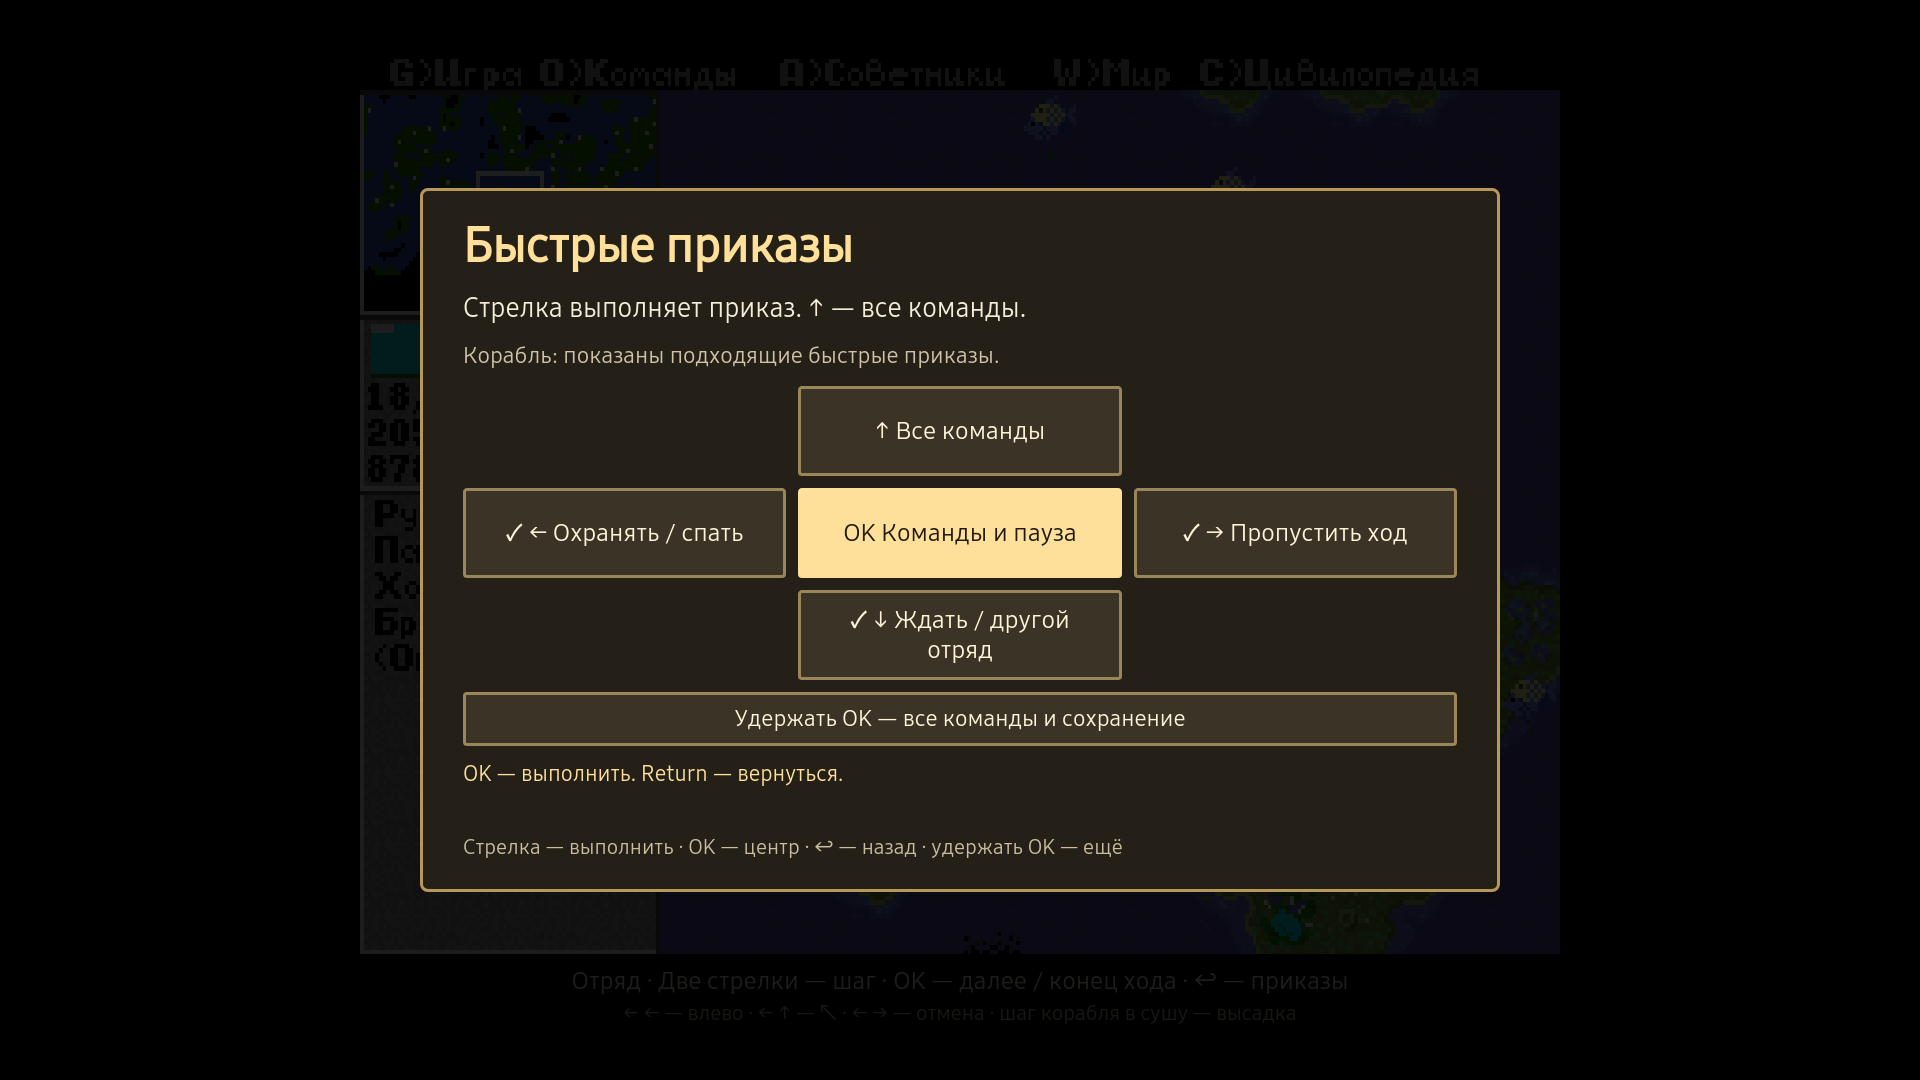
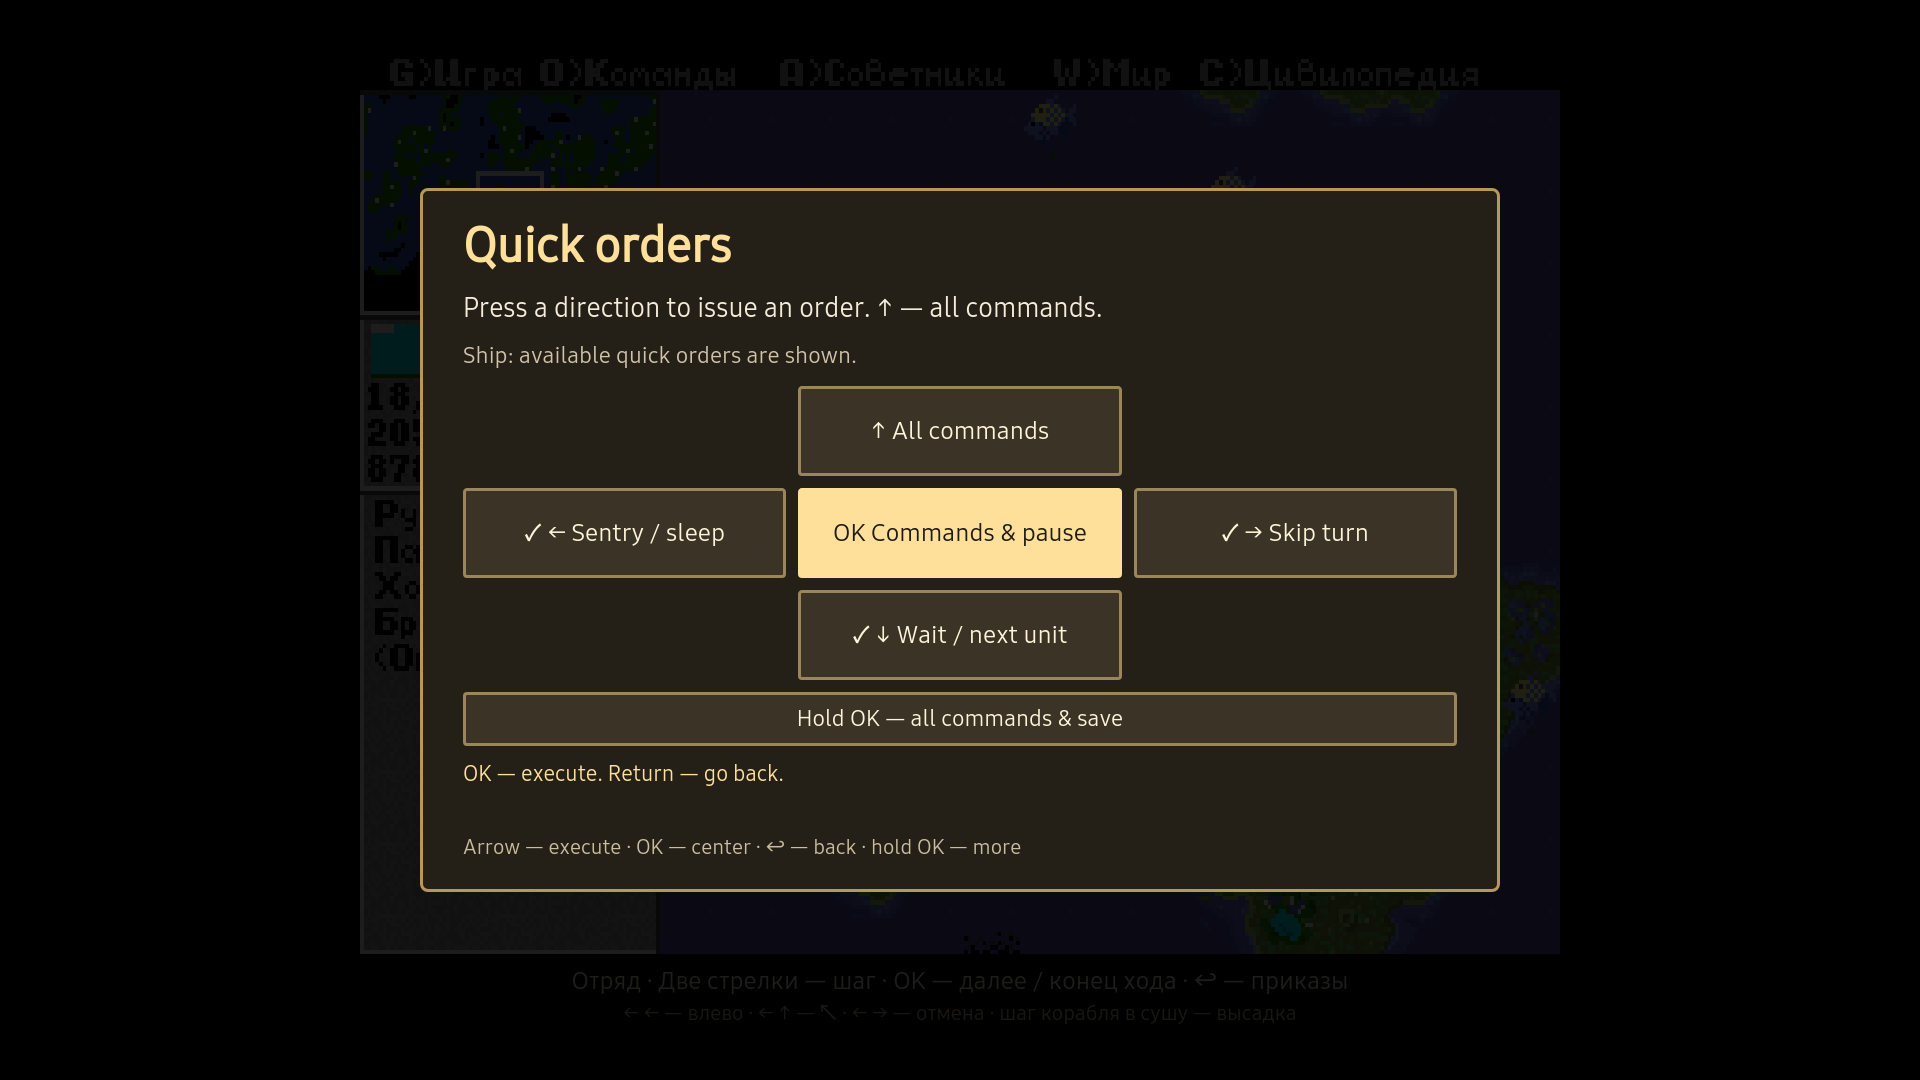
docs: translate only the Civilization ship-order panel to English

diff --git a/docs/examples.md b/docs/examples.md
@@ -24,18 +24,21 @@ assessing fidelity, completeness, and what an automated test can prove.
 | --- | --- | --- |
 | [X-COM](screenshots/xcom.png) | `output/skill-publication/tv-captures/xcom.png` | Physical Samsung TV, tactical battle, 1920×1080 |
 | [Civilization gameplay](screenshots/civilization.png) | `output/skill-publication/tv-captures/civilization.png` | Physical Samsung TV, original Russian game, 1920×1080 |
-| [Civilization ship orders](screenshots/civilization-orders.png) | `output/skill-publication/tv-captures/civilization-orders.png` | Physical Samsung TV, actual Russian order panel, 1920×1080 |
+| [Civilization ship orders](screenshots/civilization-orders.png) | `output/skill-publication/tv-captures/civilization-orders-en-tv-2026-10-29.png` | Physical Samsung TV, English panel preview, 1920×1080 |
 | [Dune II](screenshots/dune-ii-gameplay-tv.png) | `output/skill-publication/tv-captures/dune-ii-gameplay-2026-10-29.png` | Physical Samsung TV, mission gameplay, 1920×1080 |
 | [Prince of Persia](screenshots/prince-of-persia.png) | `output/skill-publication/tv-captures/prince-of-persia.png` | Physical Samsung TV, original DOS gameplay, 1920×1080 |
 | [Zuma Deluxe](screenshots/zuma.png) | `output/skill-publication/tv-captures/zuma.png` | Physical Samsung TV, HTML/Canvas adaptation, 1920×1080 |
 
-Five images were captured on 2026-10-28; Dune II was recaptured on 2026-10-29
+Four images were captured on 2026-10-28. Dune II was recaptured on 2026-10-29
 after selecting a unit and issuing a movement order, with no order menu open.
+The English Civilization ship-order panel was captured on 2026-10-29.
 All captures come from a Samsung UE65TU8570UXRU running Tizen 5.5 and Chromium 69.
 The capture session verifies the device's
 SMART-TV user agent, application ID, 1920×1080 application viewport, and game
-state. English and Russian text is retained as the TV renders it; no translation
-preview, cropping, retouching, or generated game imagery is used.
+state. The Civilization ship-order panel was translated in the live TV page for
+this capture; its native DOS canvas and all text outside the panel were verified
+unchanged. Other images retain their original text. No cropping, retouching,
+or generated game imagery is used.
 
 This TV does not return frames through CDP `Page.captureScreenshot` or screencast.
 Instead, its Web Inspector exports the application's painted render layers using

diff --git a/README.md b/README.md
@@ -39,10 +39,11 @@ Original DOS gameplay with the world map, active unit, and native Russian interf
 
 **Sid Meier's Civilization — contextual ship orders**
 
-![Civilization ship-order panel captured on the TV, showing sentry, skip-turn, wait, and all commands in the actual Russian interface](docs/screenshots/civilization-orders.png)
+![English Civilization ship-order panel captured on the TV, showing sentry, skip-turn, wait, and all commands](docs/screenshots/civilization-orders.png)
 
-Object-specific quick actions and persistent sentry duty, shown in the actual
-Russian TV interface. Return opens the panel; a direction selects an order.
+Object-specific quick actions and persistent sentry duty, shown in English for
+this TV capture. Return opens the panel; a direction selects an order.
+The original DOS game remains in Russian.
 
 See [examples and capture provenance](docs/examples.md) for the demonstrated
 behaviors and the limits of what these screenshots prove. Game archives,
